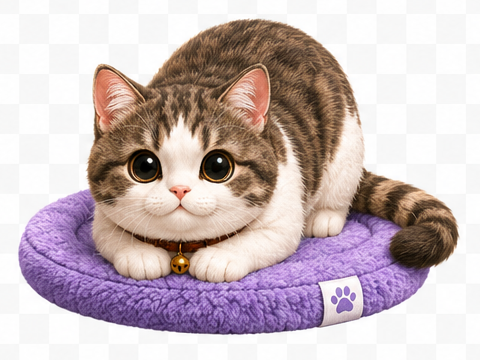
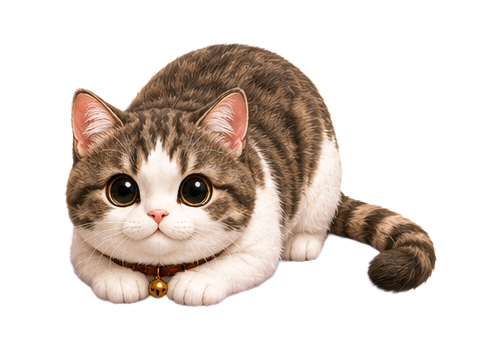
Refine character widget text layout

diff --git a/ios/NyangWidget/NyangWidget.swift b/ios/NyangWidget/NyangWidget.swift
@@ -206,8 +206,6 @@ struct NyangCharacterWidgetView: View {
 
             HStack {
                 widgetText
-                    .lineLimit(1)
-                    .minimumScaleFactor(0.72)
                     .padding(.leading, 28)
                     .padding(.trailing, 145)
                     .padding(.top, 34)
@@ -228,18 +226,25 @@ struct NyangCharacterWidgetView: View {
     private var widgetText: some View {
         Group {
             if hasTimedSchedule {
-                (Text(entry.scheduleTime)
-                    .foregroundColor(Color(red: 0.55, green: 0.49, blue: 1.0))
-                 + Text(" ")
-                    .foregroundColor(.white)
-                 + Text(entry.scheduleTitle)
-                    .foregroundColor(.white))
-                    .font(.system(size: 25, weight: .bold, design: .rounded))
+                VStack(alignment: .leading, spacing: 4) {
+                    Text(entry.scheduleTime)
+                        .foregroundColor(Color(red: 0.55, green: 0.49, blue: 1.0))
+                        .font(.system(size: 20, weight: .bold, design: .rounded))
+                        .lineLimit(1)
+
+                    Text(entry.scheduleTitle)
+                        .foregroundColor(.white)
+                        .font(.system(size: 18, weight: .bold, design: .rounded))
+                        .lineLimit(1)
+                        .minimumScaleFactor(0.82)
+                }
             } else {
                 if hasNoTodayItems {
                     Text("집사야 오늘 뭐할까?")
                         .foregroundColor(.white)
-                        .font(.system(size: 25, weight: .bold, design: .rounded))
+                        .font(.system(size: 18, weight: .bold, design: .rounded))
+                        .lineLimit(1)
+                        .minimumScaleFactor(0.82)
                 } else {
                     (Text("오늘 할 일 ")
                         .foregroundColor(.white)
@@ -247,7 +252,9 @@ struct NyangCharacterWidgetView: View {
                         .foregroundColor(Color(red: 0.55, green: 0.49, blue: 1.0))
                      + Text("개 남음")
                         .foregroundColor(.white))
-                        .font(.system(size: 25, weight: .bold, design: .rounded))
+                        .font(.system(size: 18, weight: .bold, design: .rounded))
+                        .lineLimit(1)
+                        .minimumScaleFactor(0.82)
                 }
             }
         }

diff --git a/android/app/src/main/kotlin/com/nyang/nyang_coach/CatCharacterWidgetProvider.kt b/android/app/src/main/kotlin/com/nyang/nyang_coach/CatCharacterWidgetProvider.kt
@@ -6,6 +6,7 @@ import android.content.Context
 import android.content.Intent
 import android.content.SharedPreferences
 import android.net.Uri
+import android.view.View
 import android.widget.RemoteViews
 import es.antonborri.home_widget.HomeWidgetProvider
 
@@ -24,16 +25,21 @@ class CatCharacterWidgetProvider : HomeWidgetProvider() {
                 val progress = (rawProgress as? Number)?.toInt() ?: (rawProgress as? String)?.toIntOrNull() ?: 0
                 val hasNoTodayItems = remainingCount == 0 && progress.coerceIn(0, 100) == 0
 
-                setTextViewText(
-                    R.id.cat_character_text,
-                    if (hasTimedSchedule) {
-                        WidgetTextFormatter.formatScheduleMessage(scheduleTime, scheduleTitle, "#8B7CFF")
-                    } else if (hasNoTodayItems) {
-                        WidgetTextFormatter.formatCharacterEmptyPrompt()
-                    } else {
-                        WidgetTextFormatter.formatCharacterRemainingCount(remainingCount, "#8B7CFF")
-                    }
-                )
+                if (hasTimedSchedule) {
+                    setViewVisibility(R.id.cat_character_time, View.VISIBLE)
+                    setTextViewText(R.id.cat_character_time, scheduleTime)
+                    setTextViewText(R.id.cat_character_text, scheduleTitle)
+                } else {
+                    setViewVisibility(R.id.cat_character_time, View.GONE)
+                    setTextViewText(
+                        R.id.cat_character_text,
+                        if (hasNoTodayItems) {
+                            WidgetTextFormatter.formatCharacterEmptyPrompt()
+                        } else {
+                            WidgetTextFormatter.formatCharacterRemainingCount(remainingCount, "#8B7CFF")
+                        }
+                    )
+                }
                 setImageViewResource(
                     R.id.cat_character_image,
                     when (progress.coerceIn(0, 100)) {